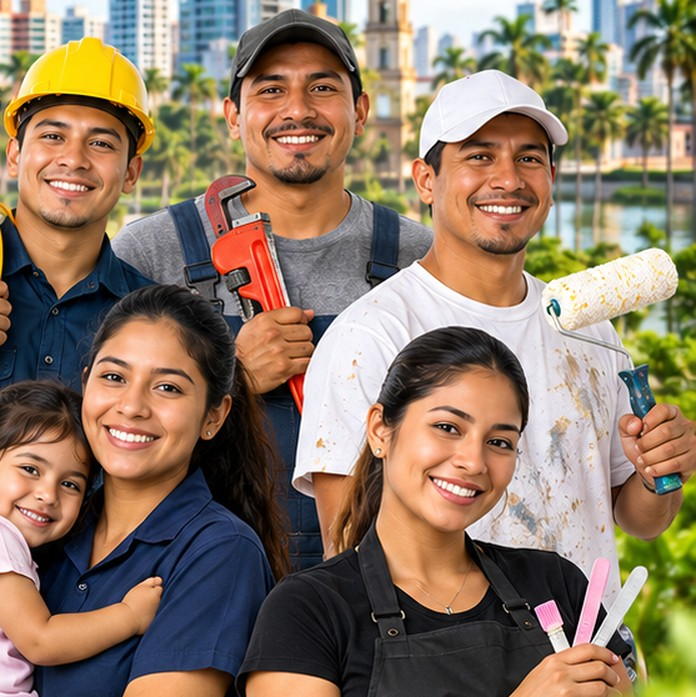
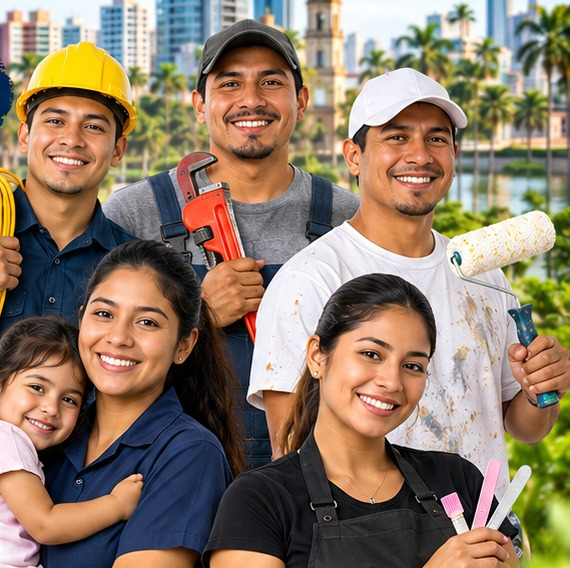
Bienvenida: foto de grupo con las seis personas enteras
Nuevo recorte del afiche (x 552-1122, y 210-778, 570x568, sin escalar):
se ven las caras de las seis personas, incluida la niña de la izquierda,
sin letras del afiche. La proporción del paso 1 es la real del archivo.

Claude-Session: https://claude.ai/code/session_01DeCF69djLMxZWpDQKuzya6

diff --git a/lib/features/onboarding/onboarding_page.dart b/lib/features/onboarding/onboarding_page.dart
@@ -25,7 +25,7 @@ class _Slide {
 const _slides = [
   _Slide(
     'assets/images/onboarding_1.jpg',
-    696 / 697,
+    570 / 568,
     'Profesionales de confianza cerca de ti',
     'Plomeros, electricistas, albañiles, limpieza y mucho más en toda Bolivia. Todos verificados.',
     Icons.verified_user_outlined,
